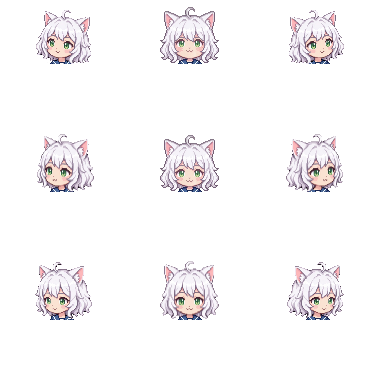
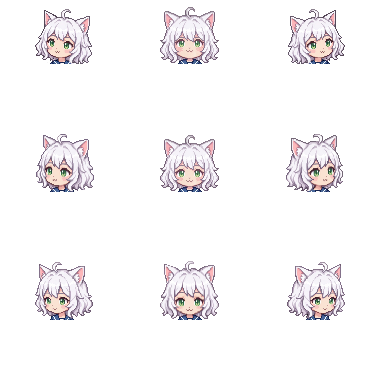
fix: 头部叠层并入主canvas渲染+范围外立即回正 — ①叠层从DOM背景图改为在主canvas上直接绘制(挖洞+drawImage同帧),与身体共享image-rendering:pixelated消除插值模糊,同步问题(白线/空窗/错位)机制性消除,HeadOverlay组件删除 ②鼠标移出追踪范围立即摆正(原逻辑误合并到静止超时分支导致远处活动永不回正),范围内静止2s仍自动回正 ③头部素材fetch→blob加载避免跨域污染

diff --git a/DeskPet/src/components/PetSpriteRenderer.vue b/DeskPet/src/components/PetSpriteRenderer.vue
@@ -4,7 +4,6 @@ import type { AnimationState } from '../composables/useAnimation'
 import { STATE_TO_SPRITE_ROW, STATE_TO_FPS, STATE_TO_LOOP } from '../composables/useAnimation'
 import type { SpriteConfig, TagFrameRange, FramePosition, HeadConfig } from '../composables/usePetRenderer'
 import type { HeadDirection } from '../composables/useMouseTracking'
-import HeadOverlay from './HeadOverlay.vue'
 
 const props = defineProps<{
   animationState: AnimationState
@@ -21,6 +20,19 @@ const props = defineProps<{
 const emit = defineEmits<{
   animationComplete: []
 }>()
+
+// 9 宫格方向索引（与 headConfig.cols/rows 布局约定对应）
+const DIRECTION_INDEX: Record<HeadDirection, number> = {
+  'up-left': 0,
+  up: 1,
+  'up-right': 2,
+  left: 3,
+  center: 4,
+  right: 5,
+  'down-left': 6,
+  down: 7,
+  'down-right': 8,
+}
 
 const canvas = ref<HTMLCanvasElement | null>(null)
 const image = ref<HTMLImageElement | null>(null)
@@ -314,26 +326,35 @@ function renderLoop(timestamp: number) {
     ctx.drawImage(image.value, sx, sy, fw, fh, 0, 0, cw, ch)
   }
 
-  // 头部叠层：显示/位移与 canvas 挖洞严格同帧同步（直接操作 DOM，
-  // 绕过 Vue 响应式更新，避免偶发一帧"挖了洞但叠层未就位"的空窗）。
-  const showHead = showHeadOverlay.value && !!props.headConfig.headSlot
-  const overlayEl = overlayRef.value?.$el as HTMLElement | undefined
-  if (overlayEl) {
-    overlayEl.style.display = showHead ? '' : 'none'
-    if (showHead) {
-      const shift = getHeadShift()
-      overlayEl.style.transform =
-        `translate(${shift.x + props.headConfig.offsetX}px, ${shift.y + props.headConfig.offsetY}px)`
-      const slot = props.headConfig.headSlot
-      ctx.globalCompositeOperation = 'destination-out'
-      ctx.fillRect(
-        ((slot.x + shift.x) / fw) * cw,
-        ((slot.y + shift.y) / fh) * ch,
-        (slot.w / fw) * cw,
-        (slot.h / fh) * ch,
-      )
-      ctx.globalCompositeOperation = 'source-over'
-    }
+  // 头部叠层：挖洞 + 绘制叠层在同一 canvas 同帧完成，与身体帧共享
+  // image-rendering: pixelated（DOM 背景图不支持像素化渲染，会导致模糊），
+  // 且不存在跨层同步问题（白线/空窗/错位全部消除）。
+  if (shouldShowHead() && props.headConfig.headSlot && headImage.value) {
+    const shift = getHeadShift()
+    const slot = props.headConfig.headSlot
+    ctx.globalCompositeOperation = 'destination-out'
+    ctx.fillRect(
+      ((slot.x + shift.x) / fw) * cw,
+      ((slot.y + shift.y) / fh) * ch,
+      (slot.w / fw) * cw,
+      (slot.h / fh) * ch,
+    )
+    ctx.globalCompositeOperation = 'source-over'
+
+    const hfw = props.headConfig.frameWidth
+    const hfh = props.headConfig.frameHeight
+    const idx = DIRECTION_INDEX[props.headDirection]
+    const hcol = idx % props.headConfig.cols
+    const hrow = Math.floor(idx / props.headConfig.cols)
+    ctx.imageSmoothingEnabled = false
+    ctx.drawImage(
+      headImage.value,
+      hcol * hfw, hrow * hfh, hfw, hfh,
+      ((props.headConfig.offsetX + shift.x) / fw) * cw,
+      ((props.headConfig.offsetY + shift.y) / fh) * ch,
+      (hfw / fw) * cw,
+      (hfh / fh) * ch,
+    )
   }
 
   if (transitioning) {
@@ -375,6 +396,7 @@ function crossfadeToState(_state: AnimationState) {
 }
 
 onMounted(() => {
+  loadHeadImage()
   if (props.config.src) {
     loadSprite()
   }
@@ -400,6 +422,10 @@ watch(() => props.config.src, () => {
   }
 })
 
+watch(() => props.headConfig.src, () => {
+  loadHeadImage()
+})
+
 const canvasWidth = computed(() => props.config.frameWidth * props.config.scale)
 const canvasHeight = computed(() => props.config.frameHeight * props.config.scale)
 
@@ -419,16 +445,42 @@ const wrapperStyle = computed(() => {
 // 头部叠层激活条件：仅 IDLE 状态（含正转头时保持方向的眨眼瞬间）。
 // blink 且头部正偏离时保持叠层显示，避免头部方向跳变；blink 且朝正面时
 // 隐藏叠层露出原始闭眼帧，保留眨眼动画。
-const showHeadOverlay = computed(() => {
+function shouldShowHead(): boolean {
   if (!props.headEnabled || !props.headConfig.src) return false
   return props.animationState === 'idle'
     || (props.animationState === 'blink' && props.headDirection !== 'center')
-})
+}
 
-// 叠层 DOM 常驻（v-if 条件渲染会有挂载/卸载延迟，与 canvas 挖洞不同步，
-// 偶发出现"挖了洞但叠层未挂载"的一帧空窗）。显示/位移由 renderLoop
-// 直接操作 DOM，与挖洞严格同帧。
-const overlayRef = ref<InstanceType<typeof HeadOverlay> | null>(null)
+// 头部素材（9 宫格），fetch→blob 加载（与 sprite 相同策略，避免跨域污染）
+const headImage = ref<HTMLImageElement | null>(null)
+
+function loadHeadImage() {
+  if (!props.headConfig.src) {
+    headImage.value = null
+    return
+  }
+  fetch(props.headConfig.src)
+    .then((res) => {
+      if (!res.ok) throw new Error(`HTTP ${res.status}`)
+      return res.blob()
+    })
+    .then((blob) => {
+      const url = URL.createObjectURL(blob)
+      const img = new Image()
+      img.onload = () => {
+        URL.revokeObjectURL(url)
+        headImage.value = img
+      }
+      img.onerror = () => {
+        URL.revokeObjectURL(url)
+        headImage.value = null
+      }
+      img.src = url
+    })
+    .catch(() => {
+      headImage.value = null
+    })
+}
 
 // 初始检测可能因 JSON/图片时序未就绪而失败，渲染循环里每秒兜底重试，
 // 直到检测成功一次。
@@ -443,11 +495,6 @@ function getHeadShift(): { x: number; y: number } {
 
 <template>
   <div class="pet-sprite-canvas-wrapper" :style="wrapperStyle">
-    <HeadOverlay
-      ref="overlayRef"
-      :direction="headDirection"
-      :config="headConfig"
-    />
     <canvas
       v-if="imageLoaded"
       ref="canvas"

diff --git a/DeskPet/src/composables/useMouseTracking.ts b/DeskPet/src/composables/useMouseTracking.ts
@@ -72,8 +72,17 @@ export function useMouseTracking(opts: MouseTrackingOptions = {}) {
     const dist2 = rx * rx + ry * ry
     const inRange = dist2 <= radius * radius
 
-    // 静止或范围外：超过 settleMs 未移动则回正（保持最后方向直到超时）
-    if (!moved || !inRange) {
+    // 范围外：立即回正（不等待静止超时——远处活动视为"没人"，直接摆正）
+    if (!inRange) {
+      if (direction !== 'center') {
+        direction = 'center'
+        currentAngle = null
+      }
+      return direction
+    }
+
+    // 范围内静止：超过 settleMs 未移动则回正（保持最后方向直到超时）
+    if (!moved) {
       if (direction !== 'center' && now - lastMoveTime >= settleMs) {
         direction = 'center'
         currentAngle = null
